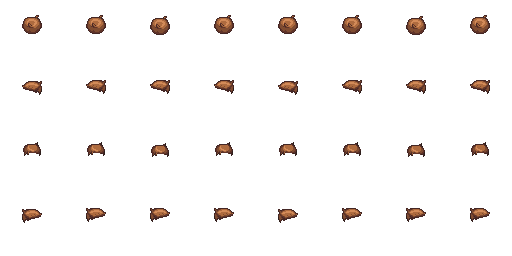
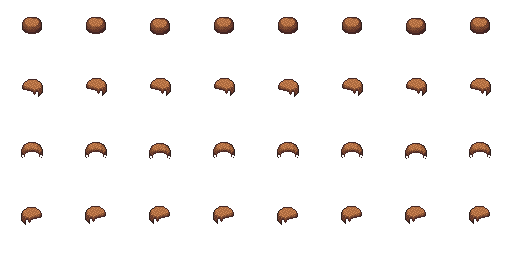
Art assets: full ElizaWy cast layers (fuller hero hair, feminine Mara, bearded Bram) + LPC brick forge
Fetched via scripts/fetch_eliza_npcs.sh (ElizaWy LPC, OGA-BY 3.0): a full 'Natural'
hero hair, a feminine body/head + bob + forest shirt for Mara, and gray hair +
beard + leather shirt for Bram — REAL distinct layers, replacing the hue-rotated
shirt_red hack (removed; build_slice_art.py now pond-only). forge.png assembled
from the LPC house-exterior kit (Sharm, CC-BY-SA/GPL/OGA-BY).

diff --git a/scripts/build_slice_art.py b/scripts/build_slice_art.py
@@ -2,10 +2,10 @@
 # build_slice_art.py — reproducible art-pipeline step for the vertical slice.
 #
 # Source : public/art/terrain/_src/terrain_summer.png (ElizaWy LPC, OGA-BY 3.0)
-#          + public/art/eliza/shirt/{idle,walk,attack}.png (the hero shirt layer).
 # Output : a POND 9-slice (grass-banked water -> a real pond, not a flat blue box)
-#          under public/art/terrain/, and Mara's RED shirt (a hue-rotated recolour
-#          of the blue shirt, shading + alpha preserved) under public/art/eliza/.
+#          under public/art/terrain/.
+# (Mara's earlier hue-rotated "red shirt" hack was REPLACED by real ElizaWy
+#  feminine LPC layers — see scripts/fetch_eliza_npcs.sh.)
 # =============================================================================
 from PIL import Image
 import os
@@ -18,28 +18,11 @@ TS = 32
 T = Image.open(os.path.join(SRC, 'terrain_summer.png')).convert('RGBA')
 def cell(r, c): return T.crop((c * TS, r * TS, c * TS + TS, r * TS + TS))
 
-# --- POND 9-slice (grass-banked water block at rows 10-12, cols 0-2) ----------
-# centre = open water; the 8 surround = grass banks + rocky shore.
+# POND 9-slice (grass-banked water block, rows 10-12 x cols 0-2; centre = water).
 pond = {'nw': (10, 0), 'n': (10, 1), 'ne': (10, 2),
         'w':  (11, 0), 'c': (11, 1), 'e':  (11, 2),
         'sw': (12, 0), 's': (12, 1), 'se': (12, 2)}
 for name, (r, c) in pond.items():
     cell(r, c).save(os.path.join(OUT, f'pond_{name}.png'))
 print(f'pond 9-slice: {len(pond)} tiles')
-
-# --- Mara's red shirt (hue-rotate the blue shirt; keep shading + alpha) --------
-def recolour(img, dh):
-    r, g, b, a = img.split()
-    h, s, v = Image.merge('RGB', (r, g, b)).convert('HSV').split()
-    h = h.point(lambda x: (x + dh) % 256)
-    s = s.point(lambda x: min(255, int(x * 1.05)))
-    rgb = Image.merge('HSV', (h, s, v)).convert('RGB')
-    return Image.merge('RGBA', (*rgb.split(), a))
-
-dst = os.path.join(ROOT, 'public', 'art', 'eliza', 'shirt_red')
-os.makedirs(dst, exist_ok=True)
-for st in ['idle', 'walk', 'attack']:
-    src = Image.open(os.path.join(ROOT, 'public', 'art', 'eliza', 'shirt', f'{st}.png')).convert('RGBA')
-    recolour(src, 105).save(os.path.join(dst, f'{st}.png'))     # +105 ≈ blue -> warm red
-print('shirt_red: idle/walk/attack')
 print('done.')